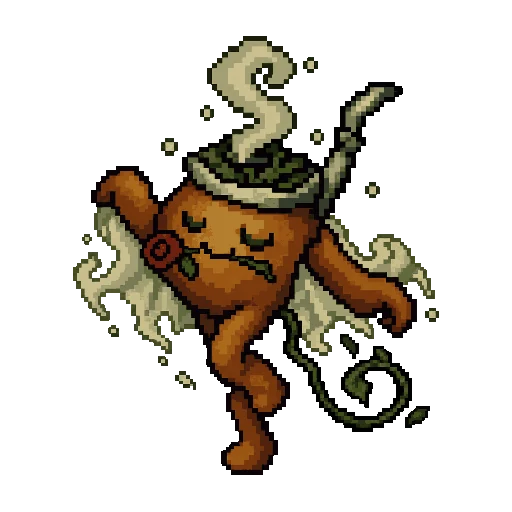
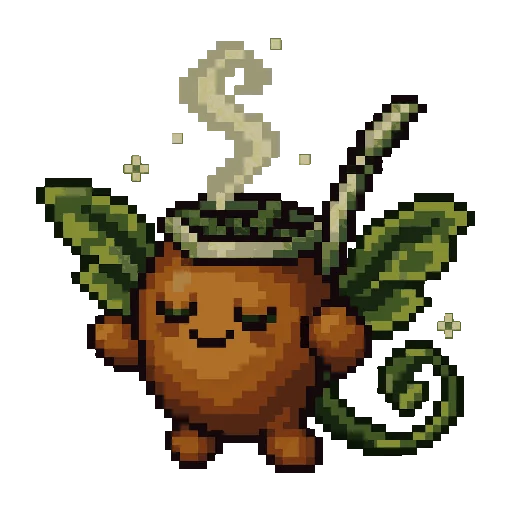
feat: evolved pictures for the renamed Hyogo and Argentina Gotomon (872 in all)
With the names fixed (10add38), these can be made from the right text:
- remade ARG-E004, E005, E007, E009: their earlier pictures were made from
  the wrong text (a horse with bee wings, the condor as a four-legged ox,
  the mate gourd dancing tango, a bull with condor wings);
- new HYG-E05 to E09 and ARG-E006, E008, E010 (left out before because the
  name did not match the picture).
- HYG-E07 redone once (the stork barely changed); checked the game picture
  is the redo. No Codex failures.
- The 15 "bonus" Gotomon in enemy_bonus.json are legends with the same ids
  and the game does not load that file, so there is nothing more to make.
- run-all-tests.sh: SAME-FAILS; npm run build ok, 872 pictures in dist.
  Headless Chrome on the preview: all 872 load at 512px; with a test save,
  HYG-E06 and ARG-E010 show their new names and evo/ pictures in the
  sticker book, no errors.

diff --git a/src/minigames/evolvedIds.js b/src/minigames/evolvedIds.js
@@ -1,3 +1,3 @@
 // Generated by scripts/evolution/import-images.py: the Gotomon that have an evolved picture
 // (public/assets/images/monsters/evo/<id>.webp). Do not edit by hand.
-export const EVOLVED_IDS = Object.freeze(["AFR-F03", "AFR-F04", "AFR-F05", "AFR-L03", "AFR-L04", "AFR-L05", "AGO-E001", "AGO-E002", "AGO-E003", "AGO-E004", "AGO-E005", "AGO-E006", "AGO-E008", "AGO-E009", "AGO-E010", "AIC-E01", "AIC-E02", "AIC-E03", "AIC-E04", "AIC-E05", "AIC-E06", "AIC-E07", "AIC-E08", "AIC-E09", "AKT-E01", "AKT-E02", "AKT-E03", "AKT-E04", "AKT-E05", "AKT-E06", "AKT-E07", "AKT-E08", "AKT-E09", "AKT-E10", "ALG-E001", "ALG-E002", "ALG-E003", "ALG-E004", "ALG-E005", "ALG-E006", "ALG-E008", "ALG-E009", "ALG-E010", "AME-F02", "AME-F03", "AME-F04", "AME-F05", "AME-L02", "AME-L04", "AME-L05", "AOM-E01", "AOM-E02", "AOM-E03", "AOM-E04", "AOM-E05", "AOM-E06", "AOM-E07", "AOM-E08", "AOM-E09", "AOM-E10", "ARG-E001", "ARG-E002", "ARG-E003", "ARG-E004", "ARG-E005", "ARG-E007", "ARG-E009", "AS-F01", "AS-F02", "AS-F03", "AS-F04", "AS-F05", "AS-L01", "AS-L04", "BOL-E001", "BOL-E002", "BOL-E003", "BOL-E004", "BOL-E007", "BOL-E008", "BOL-E010", "BRA-E001", "BRA-E002", "BRA-E003", "BRA-E004", "BRA-E005", "BRA-E006", "BRA-E007", "BRA-E008", "BRA-E009", "BRA-E010", "BTN-E001", "BTN-E002", "BTN-E003", "BTN-E004", "BTN-E005", "BTN-E006", "BTN-E007", "BTN-E008", "BTN-E009", "BTN-E010", "CAN-E001", "CAN-E002", "CAN-E003", "CAN-E004", "CAN-E005", "CAN-E006", "CAN-E007", "CAN-E008", "CAN-E009", "CAN-E010", "CHB-F01", "CHB-F02", "CHB-F04", "CHB-L01", "CHB-L02", "CHB-L03", "CHB-L04", "CHB-L05", "CHG-F01", "CHG-F03", "CHG-F04", "CHG-F05", "CHG-L01", "CHG-L03", "CHG-L05", "CHL-E001", "CHL-E003", "CHL-E004", "CHL-E005", "CHL-E006", "CHL-E008", "CHN-E001", "CHN-E002", "CHN-E003", "CHN-E004", "CHN-E005", "CHN-E006", "CHN-E007", "CHN-E008", "CHN-E009", "CHN-E010", "COL-E001", "COL-E002", "COL-E003", "COL-E004", "COL-E005", "COL-E006", "COL-E007", "COL-E008", "COL-E009", "COL-E010", "CUB-E001", "CUB-E002", "CUB-E003", "CUB-E004", "CUB-E005", "CUB-E006", "CUB-E007", "CUB-E008", "CUB-E010", "DEU-E001", "DEU-E002", "DEU-E004", "DEU-E005", "DEU-E006", "DEU-E007", "DEU-E010", "DRC-E001", "DRC-E002", "DRC-E003", "DRC-E004", "DRC-E005", "DRC-E006", "DRC-E007", "DRC-E008", "DRC-E009", "DRC-E010", "EGY-E001", "EGY-E002", "EGY-E003", "EGY-E004", "EGY-E005", "EGY-E006", "EGY-E007", "EGY-E008", "EGY-E010", "EHIM-E01", "EHIM-E02", "EHIM-E03", "EHIM-E04", "EHIM-E05", "EHIM-E06", "EHIM-E07", "EHIM-E08", "EHIM-E09", "EHIM-E10", "ESP-E001", "ESP-E002", "ESP-E003", "ESP-E004", "ESP-E005", "ESP-E006", "ESP-E007", "ESP-E009", "ESP-E010", "EUR-F01", "EUR-F02", "EUR-F03", "EUR-F04", "EUR-F05", "EUR-L01", "EUR-L05", "FIN-E001", "FIN-E002", "FIN-E003", "FIN-E004", "FIN-E005", "FIN-E006", "FIN-E007", "FIN-E008", "FIN-E009", "FIN-E010", "FIP-E001", "FIP-E002", "FIP-E003", "FIP-E004", "FIP-E005", "FIP-E006", "FIP-E007", "FIP-E008", "FIP-E009", "FIP-E010", "FRA-E001", "FRA-E002", "FRA-E003", "FRA-E004", "FRA-E005", "FRA-E008", "FRA-E010", "FUK-E01", "FUK-E02", "FUK-E03", "FUK-E04", "FUK-E05", "FUK-E06", "FUK-E07", "FUK-E09", "GBR-E001", "GBR-E002", "GBR-E003", "GBR-E004", "GBR-E005", "GBR-E006", "GBR-E007", "GBR-E009", "GBR-E010", "GF-E01", "GF-E02", "GF-E03", "GF-E04", "GF-E05", "GF-E06", "GF-E07", "GF-E08", "GF-E09", "GF-E10", "GNM-E01", "GNM-E02", "GNM-E03", "GNM-E04", "GNM-E05", "GNM-E06", "GNM-E07", "GNM-E08", "GNM-E09", "GNM-E10", "HKD-E01", "HKD-E011", "HKD-E012", "HKD-E013", "HKD-E014", "HKD-E015", "HKD-E017", "HKD-E018", "HKD-E019", "HKD-E02", "HKD-E020", "HKD-E03", "HKD-E04", "HKD-E05", "HKD-E06", "HKD-E07", "HKD-E08", "HKD-E09", "HKD-E10", "HKD-F01", "HKD-F03", "HKD-F04", "HKD-F05", "HKD-L01", "HKD-L02", "HKD-L04", "HKD-L05", "HKI-E01", "HKI-E02", "HKI-E03", "HKI-E04", "HKI-E05", "HKI-E06", "HKI-E07", "HKI-E09", "HKI-E10", "HKS-E01", "HKS-E02", "HKS-E03", "HKS-E04", "HKS-E05", "HKS-E06", "HKS-E07", "HKS-E08", "HKS-E10", "HRS-E01", "HRS-E02", "HRS-E03", "HRS-E04", "HRS-E05", "HRS-E06", "HRS-E10", "HYG-E01", "HYG-E02", "HYG-E03", "HYG-E04", "HYG-E10", "IBK-E02", "IBK-E03", "IBK-E04", "IBK-E05", "IBK-E06", "IBK-E07", "IBK-E08", "IBK-E09", "IBK-E10", "IND-E001", "IND-E002", "IND-E003", "IND-E004", "IND-E005", "IND-E006", "IND-E010", "INDN-E001", "INDN-E002", "INDN-E003", "INDN-E004", "INDN-E005", "INDN-E006", "INDN-E007", "INDN-E008", "ISK-E01", "ISK-E02", "ISK-E03", "ISK-E04", "ISK-E05", "ISK-E06", "ISK-E07", "ISK-E08", "ISK-E09", "ISK-E10", "ITA-E001", "ITA-E002", "ITA-E003", "ITA-E004", "ITA-E005", "ITA-E006", "ITA-E007", "ITA-E008", "ITA-E010", "IWT-E01", "IWT-E02", "IWT-E03", "IWT-E04", "IWT-E05", "IWT-E06", "IWT-E07", "IWT-E08", "IWT-E09", "IWT-E10", "KAGA-E01", "KAGA-E02", "KAGA-E03", "KAGA-E05", "KAGA-E06", "KAGA-E07", "KAGA-E08", "KAGA-E09", "KAGA-E10", "KAGO-E01", "KAGO-E02", "KAGO-E03", "KAGO-E04", "KAGO-E05", "KAGO-E06", "KAGO-E10", "KAZ-E001", "KAZ-E003", "KAZ-E004", "KAZ-E005", "KAZ-E006", "KAZ-E007", "KAZ-E008", "KAZ-E009", "KAZ-E010", "KEN-E001", "KEN-E003", "KEN-E004", "KEN-E006", "KEN-E007", "KEN-E008", "KEN-E009", "KEN-E010", "KIN-F01", "KIN-F02", "KIN-F03", "KIN-F04", "KIN-F05", "KIN-L02", "KIN-L03", "KIN-L04", "KIN-L05", "KNG-E01", "KNG-E02", "KNG-E03", "KNG-E04", "KNG-E06", "KNG-E07", "KNG-E08", "KNG-E09", "KNG-E10", "KNK-E001", "KNK-E002", "KNK-E003", "KNK-E004", "KNK-E005", "KNK-E006", "KNK-E007", "KNK-E008", "KNK-E009", "KNK-E010", "KNT-F01", "KNT-F02", "KNT-F03", "KNT-F04", "KNT-F05", "KNT-L02", "KNT-L03", "KNT-L04", "KNT-L05", "KOCH-E01", "KOCH-E03", "KOCH-E04", "KOCH-E05", "KOCH-E06", "KOCH-E07", "KOCH-E08", "KOCH-E09", "KUMA-E01", "KUMA-E02", "KUMA-E03", "KUMA-E04", "KUMA-E05", "KUMA-E06", "KUMA-E07", "KUMA-E08", "KUMA-E09", "KUMA-E10", "KYT-E01", "KYT-E03", "KYT-E04", "KYT-E05", "KYT-E06", "KYT-E07", "KYT-E08", "KYT-E09", "KYT-E10", "KYU-F01", "KYU-F02", "KYU-F03", "KYU-F04", "KYU-L02", "KYU-L03", "KYU-L04", "KYU-L05", "LBA-E001", "LBA-E002", "LBA-E003", "LBA-E004", "LBA-E005", "LBA-E006", "LBA-E008", "LBA-E009", "LBA-E010", "MAD-E001", "MAD-E002", "MAD-E003", "MAD-E004", "MAD-E005", "MAD-E006", "MAD-E007", "MAD-E009", "MAD-E010", "ME-E01", "ME-E02", "ME-E03", "ME-E04", "ME-E05", "ME-E06", "ME-E07", "ME-E08", "ME-E09", "MEX-E001", "MEX-E002", "MEX-E003", "MEX-E004", "MEX-E005", "MEX-E006", "MEX-E009", "MEX-E010", "MIYA-E01", "MIYA-E02", "MIYA-E03", "MIYA-E04", "MIYA-E05", "MIYA-E06", "MIYA-E07", "MIYA-E08", "MIYA-E09", "MIYA-E10", "MNG-E001", "MNG-E002", "MNG-E003", "MNG-E004", "MNG-E005", "MNG-E006", "MNG-E007", "MNG-E008", "MOR-E001", "MOR-E002", "MOR-E003", "MOR-E004", "MOR-E005", "MOR-E006", "MOR-E008", "MOR-E009", "MYG-E01", "MYG-E02", "MYG-E03", "MYG-E04", "MYG-E05", "MYG-E06", "MYG-E08", "MYG-E09", "MYG-E10", "MYM-E001", "MYM-E002", "MYM-E003", "MYM-E004", "MYM-E006", "MYM-E007", "MYM-E008", "MYM-E009", "NAGA-E01", "NAGA-E02", "NAGA-E03", "NAGA-E04", "NAGA-E05", "NAGA-E06", "NAGA-E08", "NAGA-E09", "NAGA-E10", "NGA-E001", "NGA-E003", "NGA-E004", "NGA-E005", "NGA-E006", "NGA-E007", "NGA-E008", "NGN-E01", "NGN-E02", "NGN-E03", "NGN-E04", "NGN-E05", "NGN-E07", "NGN-E09", "NGT-E01", "NGT-E02", "NGT-E03", "NGT-E05", "NGT-E06", "NGT-E07", "NGT-E08", "NGT-E09", "NGT-E10", "NR-E01", "NR-E02", "NR-E05", "NR-E06", "NR-E08", "NR-E10", "OITA-E01", "OITA-E02", "OITA-E03", "OITA-E04", "OITA-E05", "OITA-E06", "OITA-E07", "OITA-E09", "OITA-E10", "OKI-E01", "OKI-E02", "OKI-E03", "OKI-E04", "OKI-E05", "OKI-E06", "OKI-E07", "OKI-E08", "OKI-E09", "OKI-E10", "OKY-E01", "OKY-E02", "OKY-E03", "OKY-E04", "OKY-E05", "OKY-E06", "OKY-E08", "OKY-E10", "OSK-E01", "OSK-E02", "OSK-E03", "OSK-E04", "OSK-E06", "OSK-E07", "OSK-E09", "OSK-E10", "PKS-E001", "PKS-E002", "PKS-E003", "PKS-E004", "PKS-E005", "PKS-E006", "PKS-E008", "PKS-E009", "PKS-E010", "POL-E001", "POL-E002", "POL-E003", "POL-E004", "POL-E005", "POL-E006", "POL-E007", "POL-E008", "POL-E010", "RUS-E001", "RUS-E002", "RUS-E003", "RUS-E004", "RUS-E005", "RUS-E006", "RUS-E007", "RUS-E008", "RUS-E009", "RUS-E010", "SAGA-E01", "SAGA-E02", "SAGA-E03", "SAGA-E04", "SAGA-E05", "SAGA-E06", "SAGA-E07", "SAGA-E08", "SAGA-E09", "SAGA-E10", "SG-E01", "SG-E02", "SG-E03", "SG-E06", "SG-E08", "SG-E10", "SIT-E01", "SIT-E02", "SIT-E03", "SIT-E04", "SIT-E05", "SIT-E06", "SIT-E07", "SIT-E08", "SIT-E09", "SIT-E10", "SKG-F01", "SKG-F02", "SKG-F04", "SKG-F05", "SKG-L01", "SKG-L03", "SKG-L04", "SMN-E01", "SMN-E02", "SMN-E03", "SMN-E04", "SMN-E05", "SMN-E06", "SMN-E07", "SMN-E08", "SMN-E10", "SZO-E02", "SZO-E03", "SZO-E04", "SZO-E05", "SZO-E06", "SZO-E07", "SZO-E08", "SZO-E09", "SZO-E10", "TAI-E001", "TAI-E002", "TAI-E003", "TAI-E004", "TAI-E005", "TAI-E006", "TAI-E007", "TAI-E009", "TB-E01", "TB-E02", "TB-E03", "TB-E04", "TB-E05", "TB-E06", "TB-E07", "TB-E08", "TB-E09", "TB-E10", "TCG-E01", "TCG-E02", "TCG-E03", "TCG-E04", "TCG-E05", "TCG-E06", "TCG-E07", "TCG-E08", "TCG-E09", "TCG-E10", "TKY-E01", "TKY-E02", "TKY-E03", "TKY-E04", "TKY-E05", "TKY-E06", "TKY-E07", "TKY-E08", "TKY-E09", "TKY-E10", "TOH-F01", "TOH-F02", "TOH-F03", "TOH-F04", "TOH-F05", "TOH-L01", "TOH-L02", "TOH-L03", "TOH-L04", "TOH-L05", "TOKU-E01", "TOKU-E02", "TOKU-E03", "TOKU-E04", "TOKU-E05", "TOKU-E06", "TOKU-E07", "TOKU-E08", "TOKU-E09", "TOKU-E10", "TTR-E01", "TTR-E02", "TTR-E03", "TTR-E04", "TTR-E05", "TTR-E06", "TTR-E07", "TTR-E08", "TTR-E10", "TYM-E01", "TYM-E02", "TYM-E03", "TYM-E04", "TYM-E05", "TYM-E06", "TYM-E07", "TYM-E08", "TYM-E09", "TYM-E10", "UKR-E001", "UKR-E002", "UKR-E003", "UKR-E004", "UKR-E005", "UKR-E006", "UKR-E007", "UKR-E008", "UKR-E010", "USA-E001", "USA-E002", "USA-E003", "USA-E004", "USA-E005", "USA-E006", "USA-E008", "VEN-E001", "VEN-E002", "VEN-E003", "VEN-E004", "VEN-E005", "VEN-E006", "VEN-E007", "VEN-E008", "VEN-E010", "WKY-E01", "WKY-E02", "WKY-E03", "WKY-E04", "WKY-E05", "WKY-E06", "WKY-E08", "YMG-E01", "YMG-E02", "YMG-E03", "YMG-E04", "YMG-E05", "YMG-E06", "YMG-E07", "YMG-E08", "YMG-E09", "YMG-E10", "YMGC-E01", "YMGC-E02", "YMGC-E03", "YMGC-E04", "YMGC-E05", "YMGC-E06", "YMGC-E10", "YMN-E01", "YMN-E02", "YMN-E03", "YMN-E05", "YMN-E06", "YMN-E08", "YMN-E10", "ZAF-E001", "ZAF-E002", "ZAF-E003", "ZAF-E004", "ZAF-E005", "ZAF-E006", "ZAF-E008", "ZAF-E009", "ZAF-E010"]);
+export const EVOLVED_IDS = Object.freeze(["AFR-F03", "AFR-F04", "AFR-F05", "AFR-L03", "AFR-L04", "AFR-L05", "AGO-E001", "AGO-E002", "AGO-E003", "AGO-E004", "AGO-E005", "AGO-E006", "AGO-E008", "AGO-E009", "AGO-E010", "AIC-E01", "AIC-E02", "AIC-E03", "AIC-E04", "AIC-E05", "AIC-E06", "AIC-E07", "AIC-E08", "AIC-E09", "AKT-E01", "AKT-E02", "AKT-E03", "AKT-E04", "AKT-E05", "AKT-E06", "AKT-E07", "AKT-E08", "AKT-E09", "AKT-E10", "ALG-E001", "ALG-E002", "ALG-E003", "ALG-E004", "ALG-E005", "ALG-E006", "ALG-E008", "ALG-E009", "ALG-E010", "AME-F02", "AME-F03", "AME-F04", "AME-F05", "AME-L02", "AME-L04", "AME-L05", "AOM-E01", "AOM-E02", "AOM-E03", "AOM-E04", "AOM-E05", "AOM-E06", "AOM-E07", "AOM-E08", "AOM-E09", "AOM-E10", "ARG-E001", "ARG-E002", "ARG-E003", "ARG-E004", "ARG-E005", "ARG-E006", "ARG-E007", "ARG-E008", "ARG-E009", "ARG-E010", "AS-F01", "AS-F02", "AS-F03", "AS-F04", "AS-F05", "AS-L01", "AS-L04", "BOL-E001", "BOL-E002", "BOL-E003", "BOL-E004", "BOL-E007", "BOL-E008", "BOL-E010", "BRA-E001", "BRA-E002", "BRA-E003", "BRA-E004", "BRA-E005", "BRA-E006", "BRA-E007", "BRA-E008", "BRA-E009", "BRA-E010", "BTN-E001", "BTN-E002", "BTN-E003", "BTN-E004", "BTN-E005", "BTN-E006", "BTN-E007", "BTN-E008", "BTN-E009", "BTN-E010", "CAN-E001", "CAN-E002", "CAN-E003", "CAN-E004", "CAN-E005", "CAN-E006", "CAN-E007", "CAN-E008", "CAN-E009", "CAN-E010", "CHB-F01", "CHB-F02", "CHB-F04", "CHB-L01", "CHB-L02", "CHB-L03", "CHB-L04", "CHB-L05", "CHG-F01", "CHG-F03", "CHG-F04", "CHG-F05", "CHG-L01", "CHG-L03", "CHG-L05", "CHL-E001", "CHL-E003", "CHL-E004", "CHL-E005", "CHL-E006", "CHL-E008", "CHN-E001", "CHN-E002", "CHN-E003", "CHN-E004", "CHN-E005", "CHN-E006", "CHN-E007", "CHN-E008", "CHN-E009", "CHN-E010", "COL-E001", "COL-E002", "COL-E003", "COL-E004", "COL-E005", "COL-E006", "COL-E007", "COL-E008", "COL-E009", "COL-E010", "CUB-E001", "CUB-E002", "CUB-E003", "CUB-E004", "CUB-E005", "CUB-E006", "CUB-E007", "CUB-E008", "CUB-E010", "DEU-E001", "DEU-E002", "DEU-E004", "DEU-E005", "DEU-E006", "DEU-E007", "DEU-E010", "DRC-E001", "DRC-E002", "DRC-E003", "DRC-E004", "DRC-E005", "DRC-E006", "DRC-E007", "DRC-E008", "DRC-E009", "DRC-E010", "EGY-E001", "EGY-E002", "EGY-E003", "EGY-E004", "EGY-E005", "EGY-E006", "EGY-E007", "EGY-E008", "EGY-E010", "EHIM-E01", "EHIM-E02", "EHIM-E03", "EHIM-E04", "EHIM-E05", "EHIM-E06", "EHIM-E07", "EHIM-E08", "EHIM-E09", "EHIM-E10", "ESP-E001", "ESP-E002", "ESP-E003", "ESP-E004", "ESP-E005", "ESP-E006", "ESP-E007", "ESP-E009", "ESP-E010", "EUR-F01", "EUR-F02", "EUR-F03", "EUR-F04", "EUR-F05", "EUR-L01", "EUR-L05", "FIN-E001", "FIN-E002", "FIN-E003", "FIN-E004", "FIN-E005", "FIN-E006", "FIN-E007", "FIN-E008", "FIN-E009", "FIN-E010", "FIP-E001", "FIP-E002", "FIP-E003", "FIP-E004", "FIP-E005", "FIP-E006", "FIP-E007", "FIP-E008", "FIP-E009", "FIP-E010", "FRA-E001", "FRA-E002", "FRA-E003", "FRA-E004", "FRA-E005", "FRA-E008", "FRA-E010", "FUK-E01", "FUK-E02", "FUK-E03", "FUK-E04", "FUK-E05", "FUK-E06", "FUK-E07", "FUK-E09", "GBR-E001", "GBR-E002", "GBR-E003", "GBR-E004", "GBR-E005", "GBR-E006", "GBR-E007", "GBR-E009", "GBR-E010", "GF-E01", "GF-E02", "GF-E03", "GF-E04", "GF-E05", "GF-E06", "GF-E07", "GF-E08", "GF-E09", "GF-E10", "GNM-E01", "GNM-E02", "GNM-E03", "GNM-E04", "GNM-E05", "GNM-E06", "GNM-E07", "GNM-E08", "GNM-E09", "GNM-E10", "HKD-E01", "HKD-E011", "HKD-E012", "HKD-E013", "HKD-E014", "HKD-E015", "HKD-E017", "HKD-E018", "HKD-E019", "HKD-E02", "HKD-E020", "HKD-E03", "HKD-E04", "HKD-E05", "HKD-E06", "HKD-E07", "HKD-E08", "HKD-E09", "HKD-E10", "HKD-F01", "HKD-F03", "HKD-F04", "HKD-F05", "HKD-L01", "HKD-L02", "HKD-L04", "HKD-L05", "HKI-E01", "HKI-E02", "HKI-E03", "HKI-E04", "HKI-E05", "HKI-E06", "HKI-E07", "HKI-E09", "HKI-E10", "HKS-E01", "HKS-E02", "HKS-E03", "HKS-E04", "HKS-E05", "HKS-E06", "HKS-E07", "HKS-E08", "HKS-E10", "HRS-E01", "HRS-E02", "HRS-E03", "HRS-E04", "HRS-E05", "HRS-E06", "HRS-E10", "HYG-E01", "HYG-E02", "HYG-E03", "HYG-E04", "HYG-E05", "HYG-E06", "HYG-E07", "HYG-E08", "HYG-E09", "HYG-E10", "IBK-E02", "IBK-E03", "IBK-E04", "IBK-E05", "IBK-E06", "IBK-E07", "IBK-E08", "IBK-E09", "IBK-E10", "IND-E001", "IND-E002", "IND-E003", "IND-E004", "IND-E005", "IND-E006", "IND-E010", "INDN-E001", "INDN-E002", "INDN-E003", "INDN-E004", "INDN-E005", "INDN-E006", "INDN-E007", "INDN-E008", "ISK-E01", "ISK-E02", "ISK-E03", "ISK-E04", "ISK-E05", "ISK-E06", "ISK-E07", "ISK-E08", "ISK-E09", "ISK-E10", "ITA-E001", "ITA-E002", "ITA-E003", "ITA-E004", "ITA-E005", "ITA-E006", "ITA-E007", "ITA-E008", "ITA-E010", "IWT-E01", "IWT-E02", "IWT-E03", "IWT-E04", "IWT-E05", "IWT-E06", "IWT-E07", "IWT-E08", "IWT-E09", "IWT-E10", "KAGA-E01", "KAGA-E02", "KAGA-E03", "KAGA-E05", "KAGA-E06", "KAGA-E07", "KAGA-E08", "KAGA-E09", "KAGA-E10", "KAGO-E01", "KAGO-E02", "KAGO-E03", "KAGO-E04", "KAGO-E05", "KAGO-E06", "KAGO-E10", "KAZ-E001", "KAZ-E003", "KAZ-E004", "KAZ-E005", "KAZ-E006", "KAZ-E007", "KAZ-E008", "KAZ-E009", "KAZ-E010", "KEN-E001", "KEN-E003", "KEN-E004", "KEN-E006", "KEN-E007", "KEN-E008", "KEN-E009", "KEN-E010", "KIN-F01", "KIN-F02", "KIN-F03", "KIN-F04", "KIN-F05", "KIN-L02", "KIN-L03", "KIN-L04", "KIN-L05", "KNG-E01", "KNG-E02", "KNG-E03", "KNG-E04", "KNG-E06", "KNG-E07", "KNG-E08", "KNG-E09", "KNG-E10", "KNK-E001", "KNK-E002", "KNK-E003", "KNK-E004", "KNK-E005", "KNK-E006", "KNK-E007", "KNK-E008", "KNK-E009", "KNK-E010", "KNT-F01", "KNT-F02", "KNT-F03", "KNT-F04", "KNT-F05", "KNT-L02", "KNT-L03", "KNT-L04", "KNT-L05", "KOCH-E01", "KOCH-E03", "KOCH-E04", "KOCH-E05", "KOCH-E06", "KOCH-E07", "KOCH-E08", "KOCH-E09", "KUMA-E01", "KUMA-E02", "KUMA-E03", "KUMA-E04", "KUMA-E05", "KUMA-E06", "KUMA-E07", "KUMA-E08", "KUMA-E09", "KUMA-E10", "KYT-E01", "KYT-E03", "KYT-E04", "KYT-E05", "KYT-E06", "KYT-E07", "KYT-E08", "KYT-E09", "KYT-E10", "KYU-F01", "KYU-F02", "KYU-F03", "KYU-F04", "KYU-L02", "KYU-L03", "KYU-L04", "KYU-L05", "LBA-E001", "LBA-E002", "LBA-E003", "LBA-E004", "LBA-E005", "LBA-E006", "LBA-E008", "LBA-E009", "LBA-E010", "MAD-E001", "MAD-E002", "MAD-E003", "MAD-E004", "MAD-E005", "MAD-E006", "MAD-E007", "MAD-E009", "MAD-E010", "ME-E01", "ME-E02", "ME-E03", "ME-E04", "ME-E05", "ME-E06", "ME-E07", "ME-E08", "ME-E09", "MEX-E001", "MEX-E002", "MEX-E003", "MEX-E004", "MEX-E005", "MEX-E006", "MEX-E009", "MEX-E010", "MIYA-E01", "MIYA-E02", "MIYA-E03", "MIYA-E04", "MIYA-E05", "MIYA-E06", "MIYA-E07", "MIYA-E08", "MIYA-E09", "MIYA-E10", "MNG-E001", "MNG-E002", "MNG-E003", "MNG-E004", "MNG-E005", "MNG-E006", "MNG-E007", "MNG-E008", "MOR-E001", "MOR-E002", "MOR-E003", "MOR-E004", "MOR-E005", "MOR-E006", "MOR-E008", "MOR-E009", "MYG-E01", "MYG-E02", "MYG-E03", "MYG-E04", "MYG-E05", "MYG-E06", "MYG-E08", "MYG-E09", "MYG-E10", "MYM-E001", "MYM-E002", "MYM-E003", "MYM-E004", "MYM-E006", "MYM-E007", "MYM-E008", "MYM-E009", "NAGA-E01", "NAGA-E02", "NAGA-E03", "NAGA-E04", "NAGA-E05", "NAGA-E06", "NAGA-E08", "NAGA-E09", "NAGA-E10", "NGA-E001", "NGA-E003", "NGA-E004", "NGA-E005", "NGA-E006", "NGA-E007", "NGA-E008", "NGN-E01", "NGN-E02", "NGN-E03", "NGN-E04", "NGN-E05", "NGN-E07", "NGN-E09", "NGT-E01", "NGT-E02", "NGT-E03", "NGT-E05", "NGT-E06", "NGT-E07", "NGT-E08", "NGT-E09", "NGT-E10", "NR-E01", "NR-E02", "NR-E05", "NR-E06", "NR-E08", "NR-E10", "OITA-E01", "OITA-E02", "OITA-E03", "OITA-E04", "OITA-E05", "OITA-E06", "OITA-E07", "OITA-E09", "OITA-E10", "OKI-E01", "OKI-E02", "OKI-E03", "OKI-E04", "OKI-E05", "OKI-E06", "OKI-E07", "OKI-E08", "OKI-E09", "OKI-E10", "OKY-E01", "OKY-E02", "OKY-E03", "OKY-E04", "OKY-E05", "OKY-E06", "OKY-E08", "OKY-E10", "OSK-E01", "OSK-E02", "OSK-E03", "OSK-E04", "OSK-E06", "OSK-E07", "OSK-E09", "OSK-E10", "PKS-E001", "PKS-E002", "PKS-E003", "PKS-E004", "PKS-E005", "PKS-E006", "PKS-E008", "PKS-E009", "PKS-E010", "POL-E001", "POL-E002", "POL-E003", "POL-E004", "POL-E005", "POL-E006", "POL-E007", "POL-E008", "POL-E010", "RUS-E001", "RUS-E002", "RUS-E003", "RUS-E004", "RUS-E005", "RUS-E006", "RUS-E007", "RUS-E008", "RUS-E009", "RUS-E010", "SAGA-E01", "SAGA-E02", "SAGA-E03", "SAGA-E04", "SAGA-E05", "SAGA-E06", "SAGA-E07", "SAGA-E08", "SAGA-E09", "SAGA-E10", "SG-E01", "SG-E02", "SG-E03", "SG-E06", "SG-E08", "SG-E10", "SIT-E01", "SIT-E02", "SIT-E03", "SIT-E04", "SIT-E05", "SIT-E06", "SIT-E07", "SIT-E08", "SIT-E09", "SIT-E10", "SKG-F01", "SKG-F02", "SKG-F04", "SKG-F05", "SKG-L01", "SKG-L03", "SKG-L04", "SMN-E01", "SMN-E02", "SMN-E03", "SMN-E04", "SMN-E05", "SMN-E06", "SMN-E07", "SMN-E08", "SMN-E10", "SZO-E02", "SZO-E03", "SZO-E04", "SZO-E05", "SZO-E06", "SZO-E07", "SZO-E08", "SZO-E09", "SZO-E10", "TAI-E001", "TAI-E002", "TAI-E003", "TAI-E004", "TAI-E005", "TAI-E006", "TAI-E007", "TAI-E009", "TB-E01", "TB-E02", "TB-E03", "TB-E04", "TB-E05", "TB-E06", "TB-E07", "TB-E08", "TB-E09", "TB-E10", "TCG-E01", "TCG-E02", "TCG-E03", "TCG-E04", "TCG-E05", "TCG-E06", "TCG-E07", "TCG-E08", "TCG-E09", "TCG-E10", "TKY-E01", "TKY-E02", "TKY-E03", "TKY-E04", "TKY-E05", "TKY-E06", "TKY-E07", "TKY-E08", "TKY-E09", "TKY-E10", "TOH-F01", "TOH-F02", "TOH-F03", "TOH-F04", "TOH-F05", "TOH-L01", "TOH-L02", "TOH-L03", "TOH-L04", "TOH-L05", "TOKU-E01", "TOKU-E02", "TOKU-E03", "TOKU-E04", "TOKU-E05", "TOKU-E06", "TOKU-E07", "TOKU-E08", "TOKU-E09", "TOKU-E10", "TTR-E01", "TTR-E02", "TTR-E03", "TTR-E04", "TTR-E05", "TTR-E06", "TTR-E07", "TTR-E08", "TTR-E10", "TYM-E01", "TYM-E02", "TYM-E03", "TYM-E04", "TYM-E05", "TYM-E06", "TYM-E07", "TYM-E08", "TYM-E09", "TYM-E10", "UKR-E001", "UKR-E002", "UKR-E003", "UKR-E004", "UKR-E005", "UKR-E006", "UKR-E007", "UKR-E008", "UKR-E010", "USA-E001", "USA-E002", "USA-E003", "USA-E004", "USA-E005", "USA-E006", "USA-E008", "VEN-E001", "VEN-E002", "VEN-E003", "VEN-E004", "VEN-E005", "VEN-E006", "VEN-E007", "VEN-E008", "VEN-E010", "WKY-E01", "WKY-E02", "WKY-E03", "WKY-E04", "WKY-E05", "WKY-E06", "WKY-E08", "YMG-E01", "YMG-E02", "YMG-E03", "YMG-E04", "YMG-E05", "YMG-E06", "YMG-E07", "YMG-E08", "YMG-E09", "YMG-E10", "YMGC-E01", "YMGC-E02", "YMGC-E03", "YMGC-E04", "YMGC-E05", "YMGC-E06", "YMGC-E10", "YMN-E01", "YMN-E02", "YMN-E03", "YMN-E05", "YMN-E06", "YMN-E08", "YMN-E10", "ZAF-E001", "ZAF-E002", "ZAF-E003", "ZAF-E004", "ZAF-E005", "ZAF-E006", "ZAF-E008", "ZAF-E009", "ZAF-E010"]);

diff --git a/docs/progress-handoff.md b/docs/progress-handoff.md
@@ -3,11 +3,11 @@
 > ## 次回はここから（2026-10-02 最終更新）
 >
 > ### 再開するときは（この順で）
-> 1. **状態**：ここまで すべて本番公開済み（最新 PR #78、`main` = `ee9fee0`、Vercel 本番 yomitabi.gamanavi.com）。ブランチ
+> 1. **状態**：ここまで すべて本番公開済み（最新 PR #79、Vercel 本番 yomitabi.gamanavi.com）。ブランチ
 >    `feature/content-bank-120` は main と同じ中身＋この資料の更新コミットだけ（未push）。`git log --oneline -3` で確認。
 > 2. **ゴトモン拡張（設計 https://claude.ai/artifact/39yJpJ2AESL43mpm8jgZsy ）は5弾とも公開済み**：タイプと相性（#70）→ わざとパーティ（#71）
 >    → 配合（#72）→ すがた＝色ちがい・かがやき（#73）→ しんか（#73、絵は #74 で作りなおし）。決まった次の作業は ない。**ユーザーに聞く**。候補：
->    - しんかの絵を ふやす（いまは864体：日本・世界の ふつうの子と 伝説は ひととおり。残りは ボーナス15体）。下見は `screen.py` で 元の絵と名前を並べて、合わない子・実在の人物・神仏・寺社・お酒・ほかの作品のキャラは 外す。外した子は `CHOSEN.md``scripts/evolution/targets.json` に `{"id", "style": cute|cool|eerie}` を足す → `run-codex.mjs`
+>    - しんかの絵を ふやす（いまは872体：日本・世界の ふつうの子と 伝説は ひととおり。ボーナス15体は 伝説と同じ子。残りは 方針で外した子だけ）。下見は `screen.py` で 元の絵と名前を並べて、合わない子・実在の人物・神仏・寺社・お酒・ほかの作品のキャラは 外す。外した子は `CHOSEN.md``scripts/evolution/targets.json` に `{"id", "style": cute|cool|eerie}` を足す → `run-codex.mjs`
 >      → `compare.py` で元の絵と並べて目で確認 → `import-images.py`（手順 `scripts/evolution/README.md`、どの回の絵か `CHOSEN.md`）。
 >      方向は 1ぴき1つ・性格に合わせて・ぶきみは「ちょっと」（ユーザーの決定）。かわいい方向は レトロの決まりと ぶつかり 進化が小さく
 >      なりやすいので、前の回と くらべて えらぶ。
@@ -28,7 +28,13 @@
 >    「見終わった」と言われたら `ArtifactData` で `checks` を読み、「直す」を元データへ（作り方とIDは `scripts/teacher-check/README.md`）。
 >    ほかの宿題：Firestoreルール（最優先の未決定事項）、デプロイ先の一本化、ひみつノートの ふりがな（依存追加は要相談）。
 >
-> **いちばん新しい作業（本番公開済み、PR #78、`main` = `ee9fee0`）**: しんかの絵を 世界の子と伝説にも（428→864体）。ユーザーの依頼「世界の子と伝説も続けて」。
+> **いちばん新しい作業（本番公開済み、PR #79、2026-10-03）**: 兵庫・アルゼンチンの 名前と文を 絵に合わせた（E05/E06 から ずれていた）。
+> 兵庫：E06 氷ノ山こだまキッズ（新）、E07 コウノトリ、E08 有馬温泉、E09 赤穂城サムライゴースト（赤穂浪士＝実在の人物 から 変えた）。
+> アルゼンチン：E004 パンパホース、E005 アンデスコンドル、E006 ガウチョストライカー、E008 タンゴ、新しく E007 マテ茶おやすみポット・
+> E009 パンパブル・E010 ペリトモレノ氷河ドラゴン（ボス）。タイプ11、宅配便ヒント（兵庫 +E06 −E09）、先生チェックのページ（再公開済み）も連動。
+> 配合レシピは 変わらず。そのあと しんかの絵 12体（まちがった文で作っていた4体の作りなおし＋8体）。合計872体。
+>
+> **ひとつ前の作業（本番公開済み、PR #78、`main` = `ee9fee0`）**: しんかの絵を 世界の子と伝説にも（428→864体）。ユーザーの依頼「世界の子と伝説も続けて」。
 > 5回（アジア91／ヨーロッパ88／アメリカ大陸85／アフリカ86／伝説86）、日本と同じ進め方。Codex の失敗は 0件。外す基準に 神話の神・十字架・
 > 骸骨・実在の民族の戦士を 足した。作ってから 外した子：IND-E008（ゾウの頭の神さまふう）、ARG-E006・E008・E010、CHL-E007、KYU-F05。
 > ゲームが読むのは `enemies_proto.json` と `enemies_legend.json`（`enemy_world.json` は使われていない写し）→ 道具も この2つを読むよう直した。

diff --git a/scripts/evolution/CHOSEN.md b/scripts/evolution/CHOSEN.md
@@ -56,3 +56,12 @@ b1r から 指示文を「かざりだけでは進化に見えない、からだ
 | w5 で外した子 | | | 神・寺社・人物：HKD-L03、HKD-F02、CHB-F03、CHB-F05、KIN-L01、CHG-L02、KNT-L01 雷門、CHG-L04・CHG-F02 鳥居、SKG-L02・L05・F03、KYU-L01、AS-L02・L03・L05、EUR-L02・L03・L04（十字）、AME-L01・F01（トーテム）、AME-L03、AFR-L01・L02・F01・F02。KYU-F05 は 2回とも たこの 怪物に なったので 外した |
 
 世界の子と伝説は これで ひととおり。合計 864体（evo/ は 26MB）。残りは ボーナス15体と、名前と絵が ずれた子。
+
+## 兵庫・アルゼンチンの名前を直したあと（2026-10-03）
+
+名前と文を 絵に合わせて直した（コミット 10add38）ので、外していた子も 作れるようになった。回は C:/kanji-evo/fix2（作りなおし fix2r）。
+- 作りなおし：ARG-E004・E005・E007・E009。前の絵は まちがった文で 作っていた（馬に ハチの羽、コンドルが 四つ足の牛、マテ茶が タンゴ、牛に コンドルの羽）
+- 新しく：HYG-E05〜E09、ARG-E006・E008・E010。HYG-E07 は fix2r を採用
+- ボーナス15体（enemy_bonus.json）は 伝説と 同じ id で、ゲームは 読んでいない。新しく作る子は なし
+
+合計 872体。
